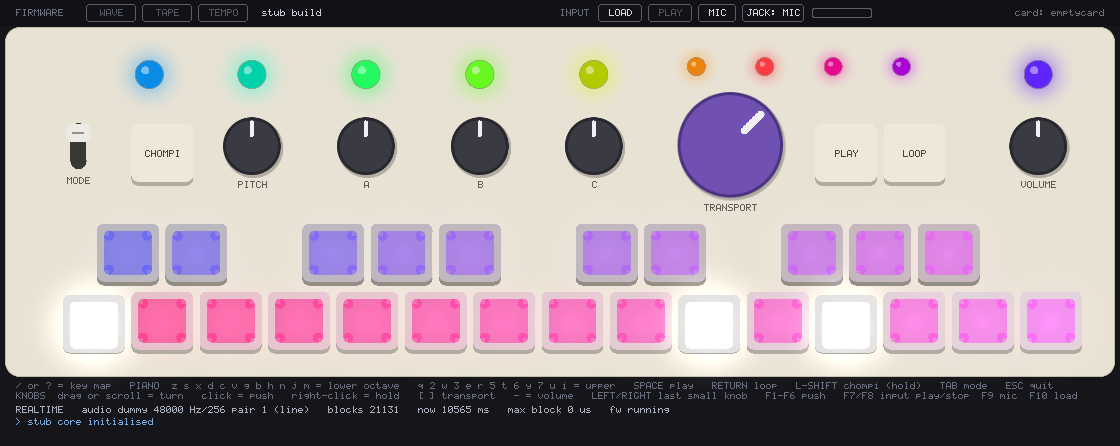
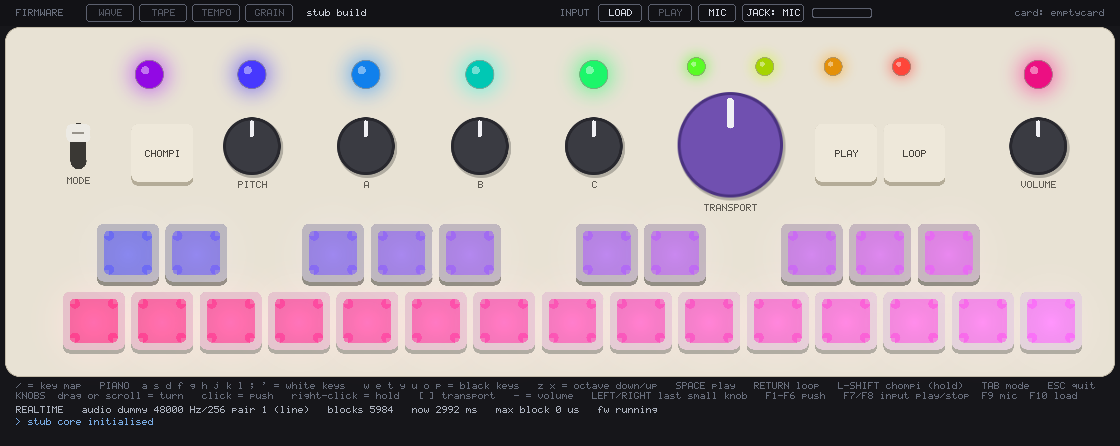
GUI: home row plays the white keys, the row above the black keys
The computer keyboard is laid out like a DAW's: a s d f g h j k l ; '
are the white keys (the lower row of caps, C to the F an octave and a
fourth up) and w e t y u o p the black keys above them. x moves the span
up an octave to reach the top caps and z brings it back; the key map
overlay prints the letters on the caps they play at the current octave
and the status line notes the shifted octave. Keys are read by physical
position (scancode) so the rows hold on any layout, and the overlay
takes the names from the layout. A key released after an octave change
still lets go of the cap it pressed.

Hint lines, README (layout, table, the TAPE save key) and the four
window screenshots updated.

Claude-Session: https://claude.ai/code/session_01Dp3X1K9YrRtikm9LtFwPLs

diff --git a/frontends/sdl/main.cpp b/frontends/sdl/main.cpp
@@ -3,6 +3,7 @@
  *  window, sound card, input mapping and the 60 fps event loop. */
 #include <SDL.h>
 #include <algorithm>
+#include <array>
 #include <cctype>
 #include <cmath>
 #include <cstdarg>
@@ -197,22 +198,29 @@ int ParseArgs(int argc, char** argv, Options& o)
 // ---------------------------------------------------------------------------
 // Keyboard mapping
 // ---------------------------------------------------------------------------
+
+/** The computer keyboard as a piano, laid out like a DAW's: the home row plays
+ *  the white keys (the lower row of caps) and the row above it the black keys,
+ *  from the low C to the F an octave and a fourth up. Physical key positions
+ *  (scancodes), so the rows hold on any keyboard layout; z and x move the span
+ *  down and up an octave to reach the top caps. */
 struct PianoKeyMap
 {
-    SDL_Keycode key;
-    int         semitone;
+    SDL_Scancode key;
+    int          semitone; /**< within the span, 0 = the low C */
 };
-constexpr PianoKeyMap kPianoMap[] = {
-    {SDLK_z, 0},  {SDLK_s, 1},  {SDLK_x, 2},  {SDLK_d, 3},  {SDLK_c, 4},  {SDLK_v, 5},  {SDLK_g, 6},
-    {SDLK_b, 7},  {SDLK_h, 8},  {SDLK_n, 9},  {SDLK_j, 10}, {SDLK_m, 11}, {SDLK_q, 12}, {SDLK_2, 13},
-    {SDLK_w, 14}, {SDLK_3, 15}, {SDLK_e, 16}, {SDLK_r, 17}, {SDLK_5, 18}, {SDLK_t, 19}, {SDLK_6, 20},
-    {SDLK_y, 21}, {SDLK_7, 22}, {SDLK_u, 23}, {SDLK_i, 24},
+constexpr PianoKeyMap kPianoMap[gui::kPianoSpan] = {
+    {SDL_SCANCODE_A, 0},  {SDL_SCANCODE_W, 1},  {SDL_SCANCODE_S, 2},  {SDL_SCANCODE_E, 3},  {SDL_SCANCODE_D, 4},
+    {SDL_SCANCODE_F, 5},  {SDL_SCANCODE_T, 6},  {SDL_SCANCODE_G, 7},  {SDL_SCANCODE_Y, 8},  {SDL_SCANCODE_H, 9},
+    {SDL_SCANCODE_U, 10}, {SDL_SCANCODE_J, 11}, {SDL_SCANCODE_K, 12}, {SDL_SCANCODE_O, 13}, {SDL_SCANCODE_L, 14},
+    {SDL_SCANCODE_P, 15}, {SDL_SCANCODE_SEMICOLON, 16}, {SDL_SCANCODE_APOSTROPHE, 17},
 };
+constexpr SDL_Scancode kOctaveDownKey = SDL_SCANCODE_Z, kOctaveUpKey = SDL_SCANCODE_X;
 
-int PianoSemitone(SDL_Keycode k)
+int PianoSpanSemitone(SDL_Scancode sc)
 {
     for(const PianoKeyMap& m : kPianoMap)
-        if(m.key == k)
+        if(m.key == sc)
             return m.semitone;
     return -1;
 }
@@ -422,6 +430,13 @@ std::vector<gui::SoundEntry> ScanCardSounds(const std::string& dir, int limit)
             out.push_back({int(out.size()), n.substr(0, n.size() - 4)});
     }
     return out;
+}
+
+std::array<int, SDL_NUM_SCANCODES> MakeHeldButtons()
+{
+    std::array<int, SDL_NUM_SCANCODES> a;
+    a.fill(-1);
+    return a;
 }
 
 // ---------------------------------------------------------------------------
@@ -729,6 +744,19 @@ class App
             std::fprintf(stderr, "renderer: %s%s\n", info.name,
                          (info.flags & SDL_RENDERER_PRESENTVSYNC) ? " (vsync)" : "");
 
+        // the key map prints what the piano keys say on this keyboard layout
+        for(const PianoKeyMap& m : kPianoMap)
+        {
+            std::string name = SDL_GetKeyName(SDL_GetKeyFromScancode(m.key));
+            bool        ascii = !name.empty();
+            for(unsigned char c : name)
+                if(c < 32 || c > 126)
+                    ascii = false;
+            if(!ascii) // the panel font is ASCII: fall back to the US name of the key
+                name = SDL_GetScancodeName(m.key);
+            ui_.piano_keys[size_t(m.semitone)] = name;
+        }
+
         // Drawing happens in output pixels, mouse events arrive in window points.
         int outW = winW, outH = winH;
         SDL_GetRendererOutputSize(renderer_, &outW, &outH);
@@ -820,6 +848,14 @@ class App
     {
         if(IsSmallKnob(enc))
             last_small_knob_ = enc;
+    }
+
+    /** z and x: the octave of the keybed the computer keyboard starts at. */
+    void SetPianoOctave(int octave)
+    {
+        piano_octave_    = std::clamp(octave, 0, 1);
+        ui_.piano_octave = piano_octave_;
+        Debug("keyboard octave %d", piano_octave_);
     }
 
     gui::Hit HitAtMouse(int wx, int wy) const
@@ -917,9 +953,26 @@ class App
         }
         if(e.repeat)
             return;
-        int semitone = PianoSemitone(k);
-        if(semitone >= 0)
-            input_.KeyboardButton(kPianoKeys[semitone], down);
+        const SDL_Scancode sc = e.keysym.scancode;
+        if(!down && sc < SDL_NUM_SCANCODES && held_button_[sc] >= 0)
+        {
+            // let go of the cap this key pressed, whatever the octave is now
+            input_.KeyboardButton(held_button_[sc], false);
+            held_button_[sc] = -1;
+            return;
+        }
+        const int span = PianoSpanSemitone(sc);
+        if(span >= 0)
+        {
+            const int semitone = span + 12 * piano_octave_;
+            if(down && semitone <= 24) // past the top cap otherwise
+            {
+                held_button_[sc] = kPianoKeys[semitone];
+                input_.KeyboardButton(kPianoKeys[semitone], true);
+            }
+        }
+        else if((sc == kOctaveDownKey || sc == kOctaveUpKey) && down)
+            SetPianoOctave(sc == kOctaveUpKey ? 1 : 0);
         else if(k == SDLK_SPACE)
             input_.KeyboardButton(KEY_PLAY, down);
         else if(k == SDLK_RETURN || k == SDLK_KP_ENTER)
@@ -1052,7 +1105,10 @@ class App
                 if(e.window.event == SDL_WINDOWEVENT_LEAVE)
                     ui_.hover = gui::Hit{};
                 else if(e.window.event == SDL_WINDOWEVENT_FOCUS_LOST)
+                {
                     input_.ReleaseKeyboard(); // no key-up events arrive once focus is gone
+                    held_button_.fill(-1);
+                }
                 break;
             default: break;
         }
@@ -1081,6 +1137,8 @@ class App
                       static_cast<unsigned long long>(st.blocks_rendered), Sim::Get().NowMs(), st.max_block_us,
                       Sim::Get().FirmwareRunning() ? "running" : "stopped");
         ui_.status = buf;
+        if(piano_octave_ > 0)
+            ui_.status += "   keys: octave up (z = down)";
 
         InputState in = Sim::Get().GetInputState();
         if(!in.name.empty() || mic_dev_ != 0)
@@ -1164,6 +1222,8 @@ class App
     Input                       input_;
     gui::Hit                    mouse_hit_;
     int                         last_small_knob_ = ENC_SW4;
+    int                         piano_octave_    = 0;  /**< the keyboard's span starts at this octave */
+    std::array<int, SDL_NUM_SCANCODES> held_button_ = MakeHeldButtons(); /**< cap pressed by each key, or -1 */
     float                       mouse_y_logical_ = 0.f;
     int                         drag_enc_        = -1;
     float                       drag_start_y_    = 0.f;

diff --git a/frontends/sdl/panel.cpp b/frontends/sdl/panel.cpp
@@ -26,9 +26,6 @@ namespace gui
 {
 using namespace chompi_sim;
 
-const char* const kPianoKeyNames[25] = {"Z", "S", "X", "D", "C", "V", "G", "B", "H", "N", "J", "M", "Q",
-                                        "2", "W", "3", "E", "R", "5", "T", "6", "Y", "7", "U", "I"};
-
 namespace
 {
 
@@ -161,13 +158,13 @@ constexpr float kLogY    = 392 + kBarH;
 constexpr float kLogDy   = 10;
 constexpr float kTextX   = 16;
 
-const char* const kHint1 = "/ or ? = key map   PIANO  z s x d c v g b h n j m = lower octave   q 2 w 3 e r 5 t 6 y 7 u i = upper   "
-                           "SPACE play   RETURN loop   L-SHIFT chompi (hold)   TAB mode   ESC quit";
+const char* const kHint1 = "/ = key map   PIANO  a s d f g h j k l ; ' = white keys   w e t y u o p = black keys   "
+                           "z x = octave down/up   SPACE play   RETURN loop   L-SHIFT chompi (hold)   TAB mode   ESC quit";
 const char* const kHint2 = "KNOBS  drag or scroll = turn   click = push   right-click = hold   [ ] transport   - = volume   "
                            "LEFT/RIGHT last small knob   F1-F6 push   F7/F8 input play/stop  F9 mic  F10 load";
 /** Hint lines while the key map overlay is up. */
-const char* const kMapHint1 = "KEY MAP   the letters on the caps play the notes (two octaves)   LEFT/RIGHT arrows turn the small knob "
-                              "touched last   / or ? hides this map";
+const char* const kMapHint1 = "KEY MAP   the letters on the caps play the notes   z / x move them down / up an octave   "
+                              "LEFT/RIGHT arrows turn the small knob touched last   / or ? hides this map";
 const char* const kMapHint2 = "MOUSE   click or hold any key   drag up/down or scroll on a knob = turn   click a knob = push   "
                               "right-click = hold   F7/F8 input play/stop  F9 mic  F10 load a sound   ESC quit";
 
@@ -633,11 +630,15 @@ void DrawKeyMap(Canvas& cv, const UiState& st)
 {
     cv.FillRect(kBody.x, kBody.y, kBody.w, kBody.h, SDL_Color{0, 0, 0, kMapDim});
 
+    // the computer key on each cap, for the octave the keyboard is at
     for(int semi = 0; semi < 25; semi++)
     {
+        const int s = semi - 12 * st.piano_octave;
+        if(s < 0 || s >= kPianoSpan || st.piano_keys[size_t(s)].empty())
+            continue;
         SDL_FRect r  = PianoKeyRect(semi);
         float     dy = Sim::Get().ButtonPressed(kPianoKeys[semi]) ? kKeyPressDy : 0.f;
-        DrawKeyChip(cv, r.x + r.w / 2, r.y + r.h - kKeyLipH - kChipH / 2 - 3 + dy, kPianoKeyNames[semi]);
+        DrawKeyChip(cv, r.x + r.w / 2, r.y + r.h - kKeyLipH - kChipH / 2 - 3 + dy, st.piano_keys[size_t(s)].c_str());
     }
 
     // Every box sits in the free band between the firmware bar and the LED

diff --git a/frontends/sdl/panel.h b/frontends/sdl/panel.h
@@ -21,8 +21,10 @@ namespace gui
 constexpr int kPanelW = 1120;
 constexpr int kPanelH = 446;
 
-/** Computer keyboard key printed on each piano key, indexed by semitone. */
-extern const char* const kPianoKeyNames[25];
+/** The computer keyboard plays a span of this many semitones, C to the F an
+ *  octave and a fourth up: the home row the white keys, the row above it the
+ *  black keys. UiState::piano_octave moves the span up to the top caps. */
+constexpr int kPianoSpan = 18;
 
 enum class HitKind
 {
@@ -58,6 +60,8 @@ struct UiState
     std::array<float, chompi_sim::kNumEncoders> knob_angle{};   /**< degrees, clockwise positive */
     std::array<bool, chompi_sim::kNumEncoders>  knob_pressed{}; /**< encoder push switches */
     int                                          arrow_knob = -1; /**< small knob the Left/Right arrow keys turn */
+    std::array<std::string, kPianoSpan>          piano_keys{};    /**< name of the computer key on each semitone of the span ("" = none) */
+    int                                          piano_octave = 0; /**< the span starts at this octave of the keybed: 0 or 1 */
     bool                                         keymap = true;   /**< draw the key map overlay */
     std::string                                  firmware;        /**< id of the firmware running ("wave"); see firmware_info.h */
     std::vector<std::string>                     firmwares_built; /**< ids the bar can switch to */

diff --git a/README.md b/README.md
@@ -83,9 +83,16 @@ the mode switch is drawn where the board puts it.
 ```
   o        o        o        o        o      o   (  )   o   o        o       <- panel LEDs
  mode  [CHOMPI]  (PITCH)   (A)      (B)      (C)   (TRANSPORT)  [PLAY] [LOOP]  (VOLUME)
-       [s] [d]      [g] [h] [j]      [2] [3]      [5] [6] [7]                  <- upper row of caps
-     [z] [x] [c] [v] [b] [n] [m] [q] [w] [e] [r] [t] [y] [u] [i]               <- lower row of caps
+       [w] [e]      [t] [y] [u]      [o] [p]      [ ] [ ] [ ]                  <- upper row of caps
+     [a] [s] [d] [f] [g] [h] [j] [k] [l] [;] ['] [ ] [ ] [ ] [ ]               <- lower row of caps
 ```
+
+The computer keyboard is laid out like a DAW's: the home row plays the white
+keys (the lower row of caps) and the row above it the black keys, from the
+low C to the F an octave and a fourth up. `x` moves that span up an octave to
+reach the top caps and `z` brings it back; the key map overlay prints the
+letters on the caps they play right now. Physical key positions are used, so
+the rows hold on any keyboard layout.
 
 Each key cap is lit by the LED under it. The bar above the instrument names
 the firmware, in its colour, with tabs to switch, and the panel tells what the
@@ -106,8 +113,9 @@ No artwork or logos are reproduced.
 
 | Control | Computer |
 |---|---|
-| Piano keys, lower octave (C to B) | `z s x d c v g b h n j m` |
-| Piano keys, upper octave (C to C) | `q 2 w 3 e r 5 t 6 y 7 u i` |
+| White keys (lower row of caps), C D E F G A B C D E F | `a s d f g h j k l ; '` |
+| Black keys (upper row), C# D# F# G# A# C# D# | `w e t y u o p` |
+| Octave of the computer keyboard | `x` up (the top caps), `z` down |
 | PLAY / LOOP / CHOMPI | Space / Return / Left Shift (hold) |
 | Mode toggle switch | Tab (latches), or click it |
 | Any key or button | click it with the mouse |
@@ -125,8 +133,8 @@ octave each way over the whole range, and it retunes notes that are already
 sounding. A click on it switches that knob to wavetable cycling (its LED
 changes colour) and a second click brings pitch back. Octave shifts live in
 the menu: with the mode switch down (`Tab`), hold the CHOMPI key (`Left
-Shift`) and press the first black key (`s`) for an octave down or the second
-(`d`) for an octave up.
+Shift`) and press the first black key (`w`) for an octave down or the second
+(`e`) for an octave up.
 
 Command line: `--card DIR` (default `card`), `--cards DIR` (a folder of card
 folders, one per firmware), `--firmware wave|tape|tempo|grain` (launcher), `--no-audio`
@@ -211,7 +219,7 @@ In TAPE, with the mode switch up, the CHOMPI key records while it is held
 (or latches, if that option is on): hold it, press `PLAY` in the bar (or
 `F7`), or speak with `MIC` on, release it, and the keys play the new sample
 from the chompi slot. The save is in the menu: mode
-switch down, hold CHOMPI, press the top black key (`7`) for SAVE, release
+switch down, hold CHOMPI, press the top black key (`x` then `u`: the keyboard's upper octave) for SAVE, release
 CHOMPI, press the white key of the slot, press CHOMPI; the card folder gets
 `jammi_a<slot>.wav`. `examples/record-tape.txt` scripts exactly that with
 `examples/tone.wav` and plays the saved slot at the end; TEMPO records the
